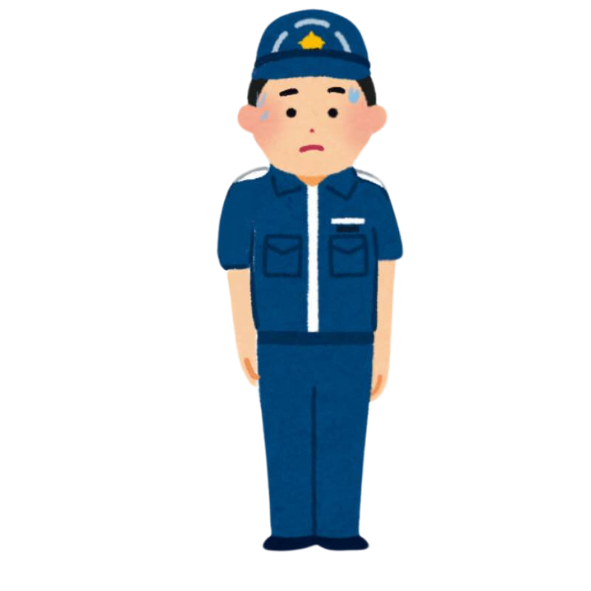
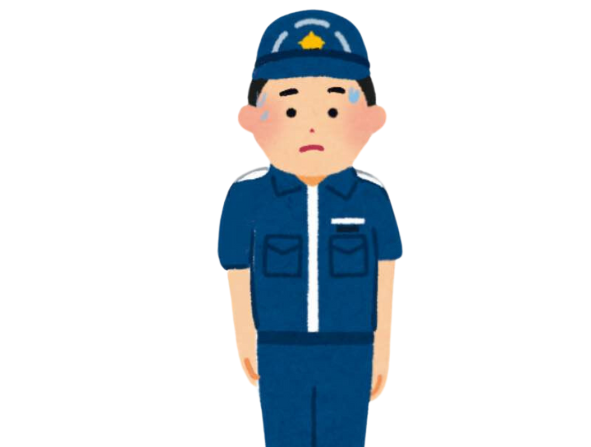
updated so that now all suspects images change as you talk to them

Changed region(s): [[0.3655, 0.0, 0.7005, 1.0]]

diff --git a/src/main/java/nz/ac/auckland/se206/controllers/InteragationRoomController.java b/src/main/java/nz/ac/auckland/se206/controllers/InteragationRoomController.java
@@ -113,6 +113,12 @@ public class InteragationRoomController {
   @FXML private ImageView Currator0;
   @FXML private ImageView Currator1;
   @FXML private ImageView Currator2;
+  @FXML private ImageView Thief0;
+  @FXML private ImageView Thief1;
+  @FXML private ImageView Thief2;
+  @FXML private ImageView Janitor0;
+  @FXML private ImageView Janitor1;
+  @FXML private ImageView Janitor2;
   @FXML private Group chatGroup;
   @FXML private TextArea txtaChat;
   @FXML private TextField txtInput;
@@ -525,7 +531,6 @@ public class InteragationRoomController {
 
   // Method to get the ImageView by ID (you can implement this based on your FXML IDs)
   private ImageView getImageView(String imageId) {
-    // Parent currentRoot = SceneManager.getUiRoot(SceneManager.AppUi.INTELROOMONE);
     Parent currentRoot = navBar.getScene().getRoot(); // Get the root of the current scene
     return (ImageView) currentRoot.lookup("#" + imageId); // Adjust based on your FXML structure
   }
